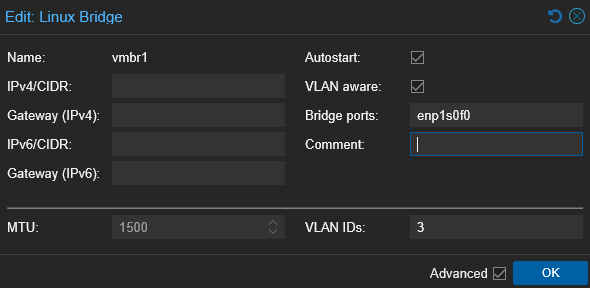
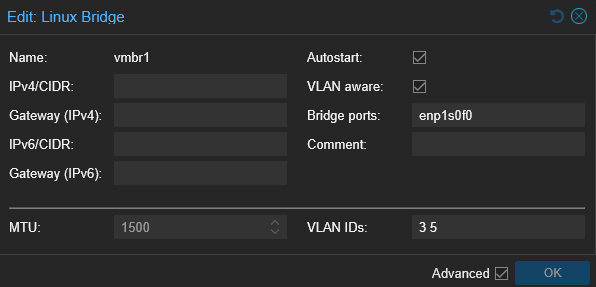
fixed mentee lab

diff --git a/public/posts/mentee-lab/index.html b/public/posts/mentee-lab/index.html
@@ -47,7 +47,7 @@
   <meta itemprop="description" content="An Overview of a Home Lab I Designed for My Mentee">
   <meta itemprop="datePublished" content="2025-07-12T21:50:48-06:00">
   <meta itemprop="dateModified" content="2025-07-12T21:50:48-06:00">
-  <meta itemprop="wordCount" content="733">
+  <meta itemprop="wordCount" content="777">
   <meta itemprop="image" content="https://masontuckett.xyz/images/share.webp">
   <meta itemprop="keywords" content="Self-Hosting,Home-Lab,Security">
 
@@ -106,6 +106,8 @@
 <p><strong>VLAN 2</strong> is on a /30 subnet, which limits potential attack surface, and is solely for the Proxmox management interface.</p>
 <p><strong>VLAN 3</strong> needs little to no usable hosts because it is intended only for logging services.</p>
 <p><strong>VLAN 5</strong> is far more generous with a /27 subnet, which would be best for tightening and expandability.</p>
+<p><strong>VLAN 6</strong> is on a /30 subnet—allowing space only for a single instance of Nginx.</p>
+<p><strong>VLAN 7</strong> is also on a /30 subnet, intended for a singular Wireguard client.</p>
 <p>Segmenting services would&rsquo;ve been best, but again—<em>this setup needs to be accessible for independent troubleshooting.</em></p>
 <p>With that in mind, DHCP is enabled on VLAN 1 in case his network configuration interferes with deliverability; <strong>my mentee has three &ldquo;free&rdquo; untagged ports on VLAN 1 for troubleshooting purposes.</strong></p>
 <p>My mentee has a keen interest in penetration testing, so I integrated a SOC lab into his home lab for learning purposes.</p>
@@ -114,7 +116,7 @@
 <p>OPNsense was used as a central router/firewall with extensive ACLs to prevent unnecessary inter-VLAN traffic and exposure.</p>
 <p><em>I found it very beginner-friendly while exposing my mentee to real-world toolsets.</em></p>
 <p>A simple Netgear gigabit managed switch <strong>(GS308Ev4)</strong> was used to establish trunk ports between OPNsense and his Proxmox &ldquo;outputs.&rdquo;</p>
-<p>Three trunk ports were utilized for carrying traffic out of his Proxmox node: an upstream trunk for VLANs <strong>(ibg0)</strong> 1, 2, 3, and 5, and two independent ports <strong>(enp1sfp0 and enp1sfp1)</strong> for VLANs 3 and 5.</p>
+<p>Three trunk ports were utilized for carrying traffic out of his Proxmox node: an upstream trunk for VLANs <strong>(ibg0)</strong> 1, 2, 3, 5, 6, and 7, and two independent ports <strong>(enp1sfp0 and enp1sfp1)</strong> for VLANs 3, 5 | 6, 7.</p>
 <p><em>A dummy <strong>PVID of 4094</strong> was used for untagged traffic on the three trunk ports—limiting potential traffic errors/security risks.</em></p>
 <p>Every other port—including the Proxmox management interface—was kept untagged.</p>
 <h3 id="virtualization">Virtualization</h3>
@@ -126,9 +128,9 @@
 <p><img src="/images/posts/mentee-lab/vmbr0.png" alt="Bridge 0 Config"></p>
 <p><strong>vmbr0</strong> is native to Proxmox (VLAN 2)—untagged and <em>purposefully <strong>not</strong> VLAN aware</em>.</p>
 <p><img src="/images/posts/mentee-lab/vmbr1.png" alt="Bridge 1 Config"></p>
-<p><strong>vmbr1</strong> is for logging purposes (VLAN 3).</p>
+<p><strong>vmbr1</strong> is for logging and self-hosted services (VLANs 3 and 5).</p>
 <p><img src="/images/posts/mentee-lab/vmbr2.png" alt="Bridge 2 Config"></p>
-<p><strong>vmbr2</strong> is used for self-hosted services (VLAN 5).</p>
+<p><strong>vmbr2</strong> is used for proxying his self-hosted traffic—safely to his VPS (VLANs 6 and 7).</p>
 <p><img src="/images/posts/mentee-lab/vmbr4.png" alt="Bridge 4 Config"></p>
 <p><strong>vmbr4</strong> is for internal use only (VLAN 4).</p>
 <h3 id="implementing-virtual-machines">Implementing Virtual Machines</h3>

diff --git a/content/posts/mentee-lab.md b/content/posts/mentee-lab.md
@@ -33,6 +33,10 @@ I decided to keep subnet assignments tight and centered around a usable pool tha
 
 **VLAN 5** is far more generous with a /27 subnet, which would be best for tightening and expandability.
 
+**VLAN 6** is on a /30 subnet—allowing space only for a single instance of Nginx.
+
+**VLAN 7** is also on a /30 subnet, intended for a singular Wireguard client.
+
 Segmenting services would've been best, but again—*this setup needs to be accessible for independent troubleshooting.*
 
 With that in mind, DHCP is enabled on VLAN 1 in case his network configuration interferes with deliverability; **my mentee has three "free" untagged ports on VLAN 1 for troubleshooting purposes.**
@@ -49,7 +53,7 @@ OPNsense was used as a central router/firewall with extensive ACLs to prevent un
 
 A simple Netgear gigabit managed switch **(GS308Ev4)** was used to establish trunk ports between OPNsense and his Proxmox "outputs."
 
-Three trunk ports were utilized for carrying traffic out of his Proxmox node: an upstream trunk for VLANs **(ibg0)** 1, 2, 3, and 5, and two independent ports **(enp1sfp0 and enp1sfp1)** for VLANs 3 and 5.
+Three trunk ports were utilized for carrying traffic out of his Proxmox node: an upstream trunk for VLANs **(ibg0)** 1, 2, 3, 5, 6, and 7, and two independent ports **(enp1sfp0 and enp1sfp1)** for VLANs 3, 5 | 6, 7.
 
 *A dummy __PVID of 4094__ was used for untagged traffic on the three trunk ports—limiting potential traffic errors/security risks.*
 
@@ -73,11 +77,11 @@ With that in mind, I opted for [Proxmox](https://www.proxmox.com/en/products/pro
 
 ![Bridge 1 Config](/images/posts/mentee-lab/vmbr1.png)
 
-**vmbr1** is for logging purposes (VLAN 3).
+**vmbr1** is for logging and self-hosted services (VLANs 3 and 5).
 
 ![Bridge 2 Config](/images/posts/mentee-lab/vmbr2.png)
 
-**vmbr2** is used for self-hosted services (VLAN 5). 
+**vmbr2** is used for proxying his self-hosted traffic—safely to his VPS (VLANs 6 and 7). 
  
 ![Bridge 4 Config](/images/posts/mentee-lab/vmbr4.png)
 
